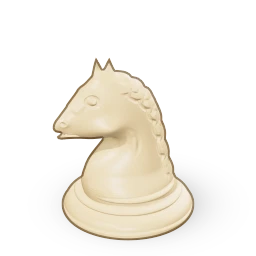
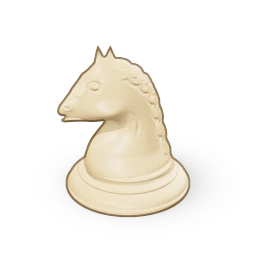
Centre every piece in its square
The 3D Staunton sprites all stood on one shared floor line, so a pawn or
rook sat well below the middle of its square and the king nearly touched
the top edge. The renderer now frames the set at one scale (the king fills
88% of the square, so the size hierarchy is kept) and centres each piece
vertically. The 12 sprites are re-rendered with it; materials and lighting
are unchanged.

The classic (cburnett) pieces get a small viewBox nudge so they centre the
same way (pawn and rook up 1.5 units of 45, bishop down half a unit).

The promotion picker no longer lifts the 3D pieces (they are centred now)
and shows them at full size; the Kids landing squash scales about the foot
of a centred piece.

Claude-Session: https://claude.ai/code/session_01KFb3ABkibAbG8eFNECk8qP

Changed region(s): [[0.1875, 0.1875, 0.7812, 0.9688]]

diff --git a/src/styles/pieces.css b/src/styles/pieces.css
@@ -1,20 +1,22 @@
-/* Chess pieces: "cburnett" set by Colin M.L. Burnett (GPLv2+ / GFDL / BSD), via the lichess chessground assets. */
[5 lines of base64/hex data omitted]
+/* Chess pieces: "cburnett" set by Colin M.L. Burnett (GPLv2+ / GFDL / BSD), via the lichess chessground assets.
+   Some carry a viewBox nudge (a pawn or rook 1.5 units up, a bishop half a unit down) so every piece
+   sits in the middle of its square. */
[17 lines of base64/hex data omitted]
 
 /* "staunton3d": a rendered 3D Staunton set (boxwood and ebony), generated by scripts/pieces/render-3d.cjs.
-   Each sprite carries its own soft contact shadow; the foot sits about 5% above the bottom of the
-   square, clear of the file letters. */
+   Each sprite carries its own soft contact shadow. Every piece shares one scale (the king fills 88% of
+   the square), so a pawn is still smaller than a king, and each is centred in its square. */
 .pieces-staunton3d .pc-wK { background-image: url('../assets/pieces/staunton3d/wK.webp'); }
 .pieces-staunton3d .pc-wQ { background-image: url('../assets/pieces/staunton3d/wQ.webp'); }
 .pieces-staunton3d .pc-wR { background-image: url('../assets/pieces/staunton3d/wR.webp'); }
@@ -27,5 +29,5 @@
 .pieces-staunton3d .pc-bB { background-image: url('../assets/pieces/staunton3d/bB.webp'); }
 .pieces-staunton3d .pc-bN { background-image: url('../assets/pieces/staunton3d/bN.webp'); }
 .pieces-staunton3d .pc-bP { background-image: url('../assets/pieces/staunton3d/bP.webp'); }
-/* In the promotion picker, show the 3D pieces a little larger and lifted so the foot clears the round button. */
-.pieces-staunton3d .promo-choice { background-size: 92% 92%; background-position: 50% 35%; }
+/* In the promotion picker, show the slimmer 3D pieces at full size (they still clear the round button). */
+.pieces-staunton3d .promo-choice { background-size: 100% 100%; }

diff --git a/scripts/pieces/staunton3d.js b/scripts/pieces/staunton3d.js
@@ -874,15 +874,12 @@ function makeCamera() {
   return cam;
 }
 
-/**
- * Rescales the projection so the king fills `fill` of the frame height with its foot `bottom`
- * above the lower edge (clear of the file letters drawn in the square's corner).
- */
-function frameCamera(cam, king, fill = 0.935, bottom = 0.052) {
+/** The piece's vertical extent in clip space (y up, -1 at the bottom of the sprite, 1 at the top). */
+function extent(cam, piece) {
   let ymin = Infinity, ymax = -Infinity;
   const v = new THREE.Vector3();
-  king.updateMatrixWorld(true);
-  king.traverse((o) => {
+  piece.updateMatrixWorld(true);
+  piece.traverse((o) => {
     if (!o.isMesh) return;
     const p = o.geometry.attributes.position;
     for (let i = 0; i < p.count; i++) {
@@ -891,9 +888,32 @@ function frameCamera(cam, king, fill = 0.935, bottom = 0.052) {
       ymax = Math.max(ymax, v.y);
     }
   });
+  return [ymin, ymax];
+}
+
+/**
+ * Rescales the projection so the king fills `fill` of the frame height. Every piece shares this
+ * scale, so the set keeps its height hierarchy; centerCamera then places each piece in the frame.
+ */
+function frameCamera(cam, king, fill = 0.88) {
+  const [ymin, ymax] = extent(cam, king);
   const s = (2 * fill) / (ymax - ymin);
-  const t = -1 + 2 * bottom - s * ymin;
-  const m = new THREE.Matrix4().makeTranslation(0, t, 0).multiply(new THREE.Matrix4().makeScale(s, s, 1)).multiply(cam.projectionMatrix);
+  const m = new THREE.Matrix4().makeScale(s, s, 1).multiply(cam.projectionMatrix);
+  cam.projectionMatrix.copy(m);
+  cam.projectionMatrixInverse.copy(m).invert();
+  return m.clone();
+}
+
+/**
+ * Moves the framed projection up or down so this piece's middle sits `drop` (a fraction of the
+ * sprite) below the sprite's centre: every piece stands in the middle of its square, a pawn as
+ * much as a king. The small drop leaves room above for the contact shadow's weight below the foot.
+ */
+function centerCamera(cam, framed, piece, drop = 0.012) {
+  cam.projectionMatrix.copy(framed);
+  const [ymin, ymax] = extent(cam, piece);
+  const t = -(ymin + ymax) / 2 - 2 * drop;
+  const m = new THREE.Matrix4().makeTranslation(0, t, 0).multiply(framed);
   cam.projectionMatrix.copy(m);
   cam.projectionMatrixInverse.copy(m).invert();
 }
@@ -1028,7 +1048,7 @@ export async function renderAll({ size = 1024, out = 256, only = null, debug = f
   const blob = blobTexture();
 
   const cam = makeCamera();
-  frameCamera(cam, buildPiece('K', 'w'));
+  const framed = frameCamera(cam, buildPiece('K', 'w'));
 
   const sprites = {};
   const full = {};
@@ -1037,7 +1057,9 @@ export async function renderAll({ size = 1024, out = 256, only = null, debug = f
   for (const name of names) {
     const color = name[0], type = name[1];
     const scene = makeScene(env, blob, RADIUS[type]);
-    scene.add(buildPiece(type, color));
+    const piece = buildPiece(type, color);
+    scene.add(piece);
+    centerCamera(cam, framed, piece);
     // First the piece alone (no contact shadow) for its outline mask, then the full render.
     const shadows = scene.children.filter((o) => o.userData.contactShadow);
     shadows.forEach((o) => (o.visible = false));

diff --git a/src/kids/activities/useBoardFx.ts b/src/kids/activities/useBoardFx.ts
@@ -57,9 +57,12 @@ function pieceAt(board: HTMLElement, sq: Sq, orientation: 'white' | 'black'): HT
   return [...board.querySelectorAll<HTMLElement>('.piece')].find((p) => p.style.transform.replace(/\s/g, '') === want) ?? null;
 }
 
-/** Scaling (squash, gulp) is done about the foot of the piece's own cell: the piece's transform already holds its position. */
+/**
+ * Scaling (squash, gulp) is done about the foot of the piece's own cell: the piece's transform already holds its position.
+ * Pieces stand centred in their squares, so feet sit from 77% (a pawn) to 95% (a king) down the cell.
+ */
 function anchor(el: HTMLElement, [c, r]: Cell) {
-  el.style.transformOrigin = `${c * 100 + 50}% ${r * 100 + 92}%`;
+  el.style.transformOrigin = `${c * 100 + 50}% ${r * 100 + 86}%`;
 }
 
 /** The origin only belongs to the running squash or gulp: a drag scales the piece about its own centre. */
